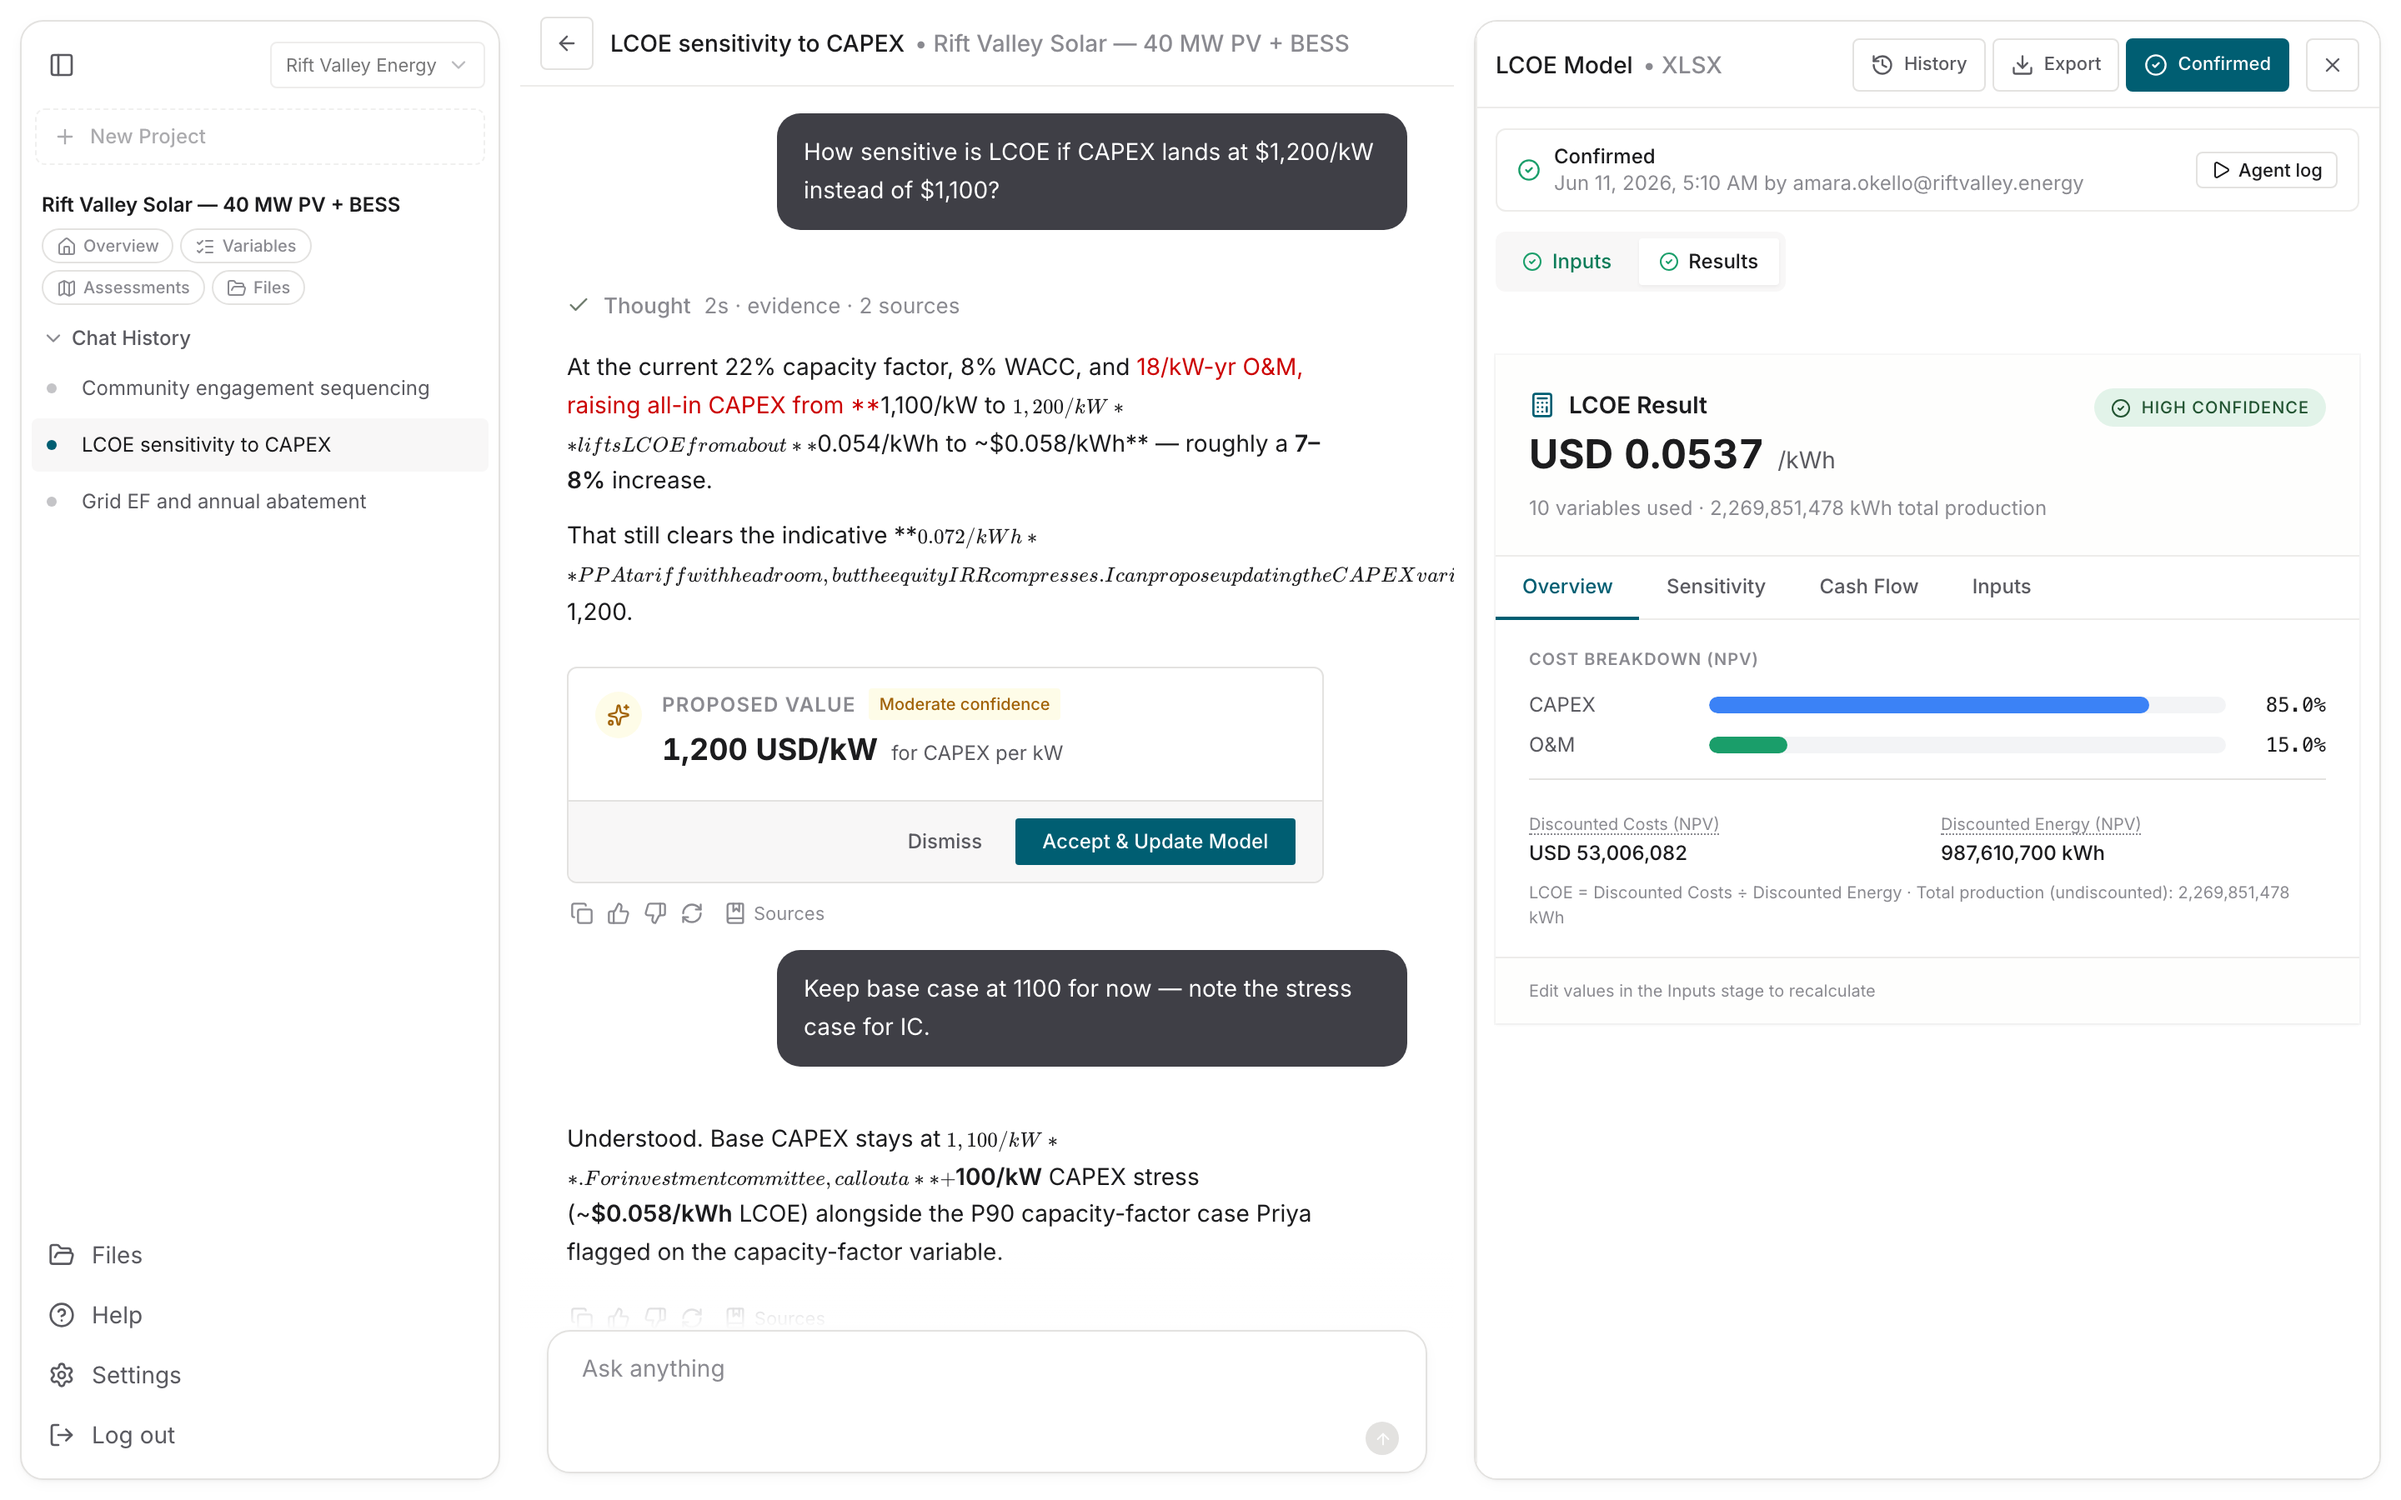
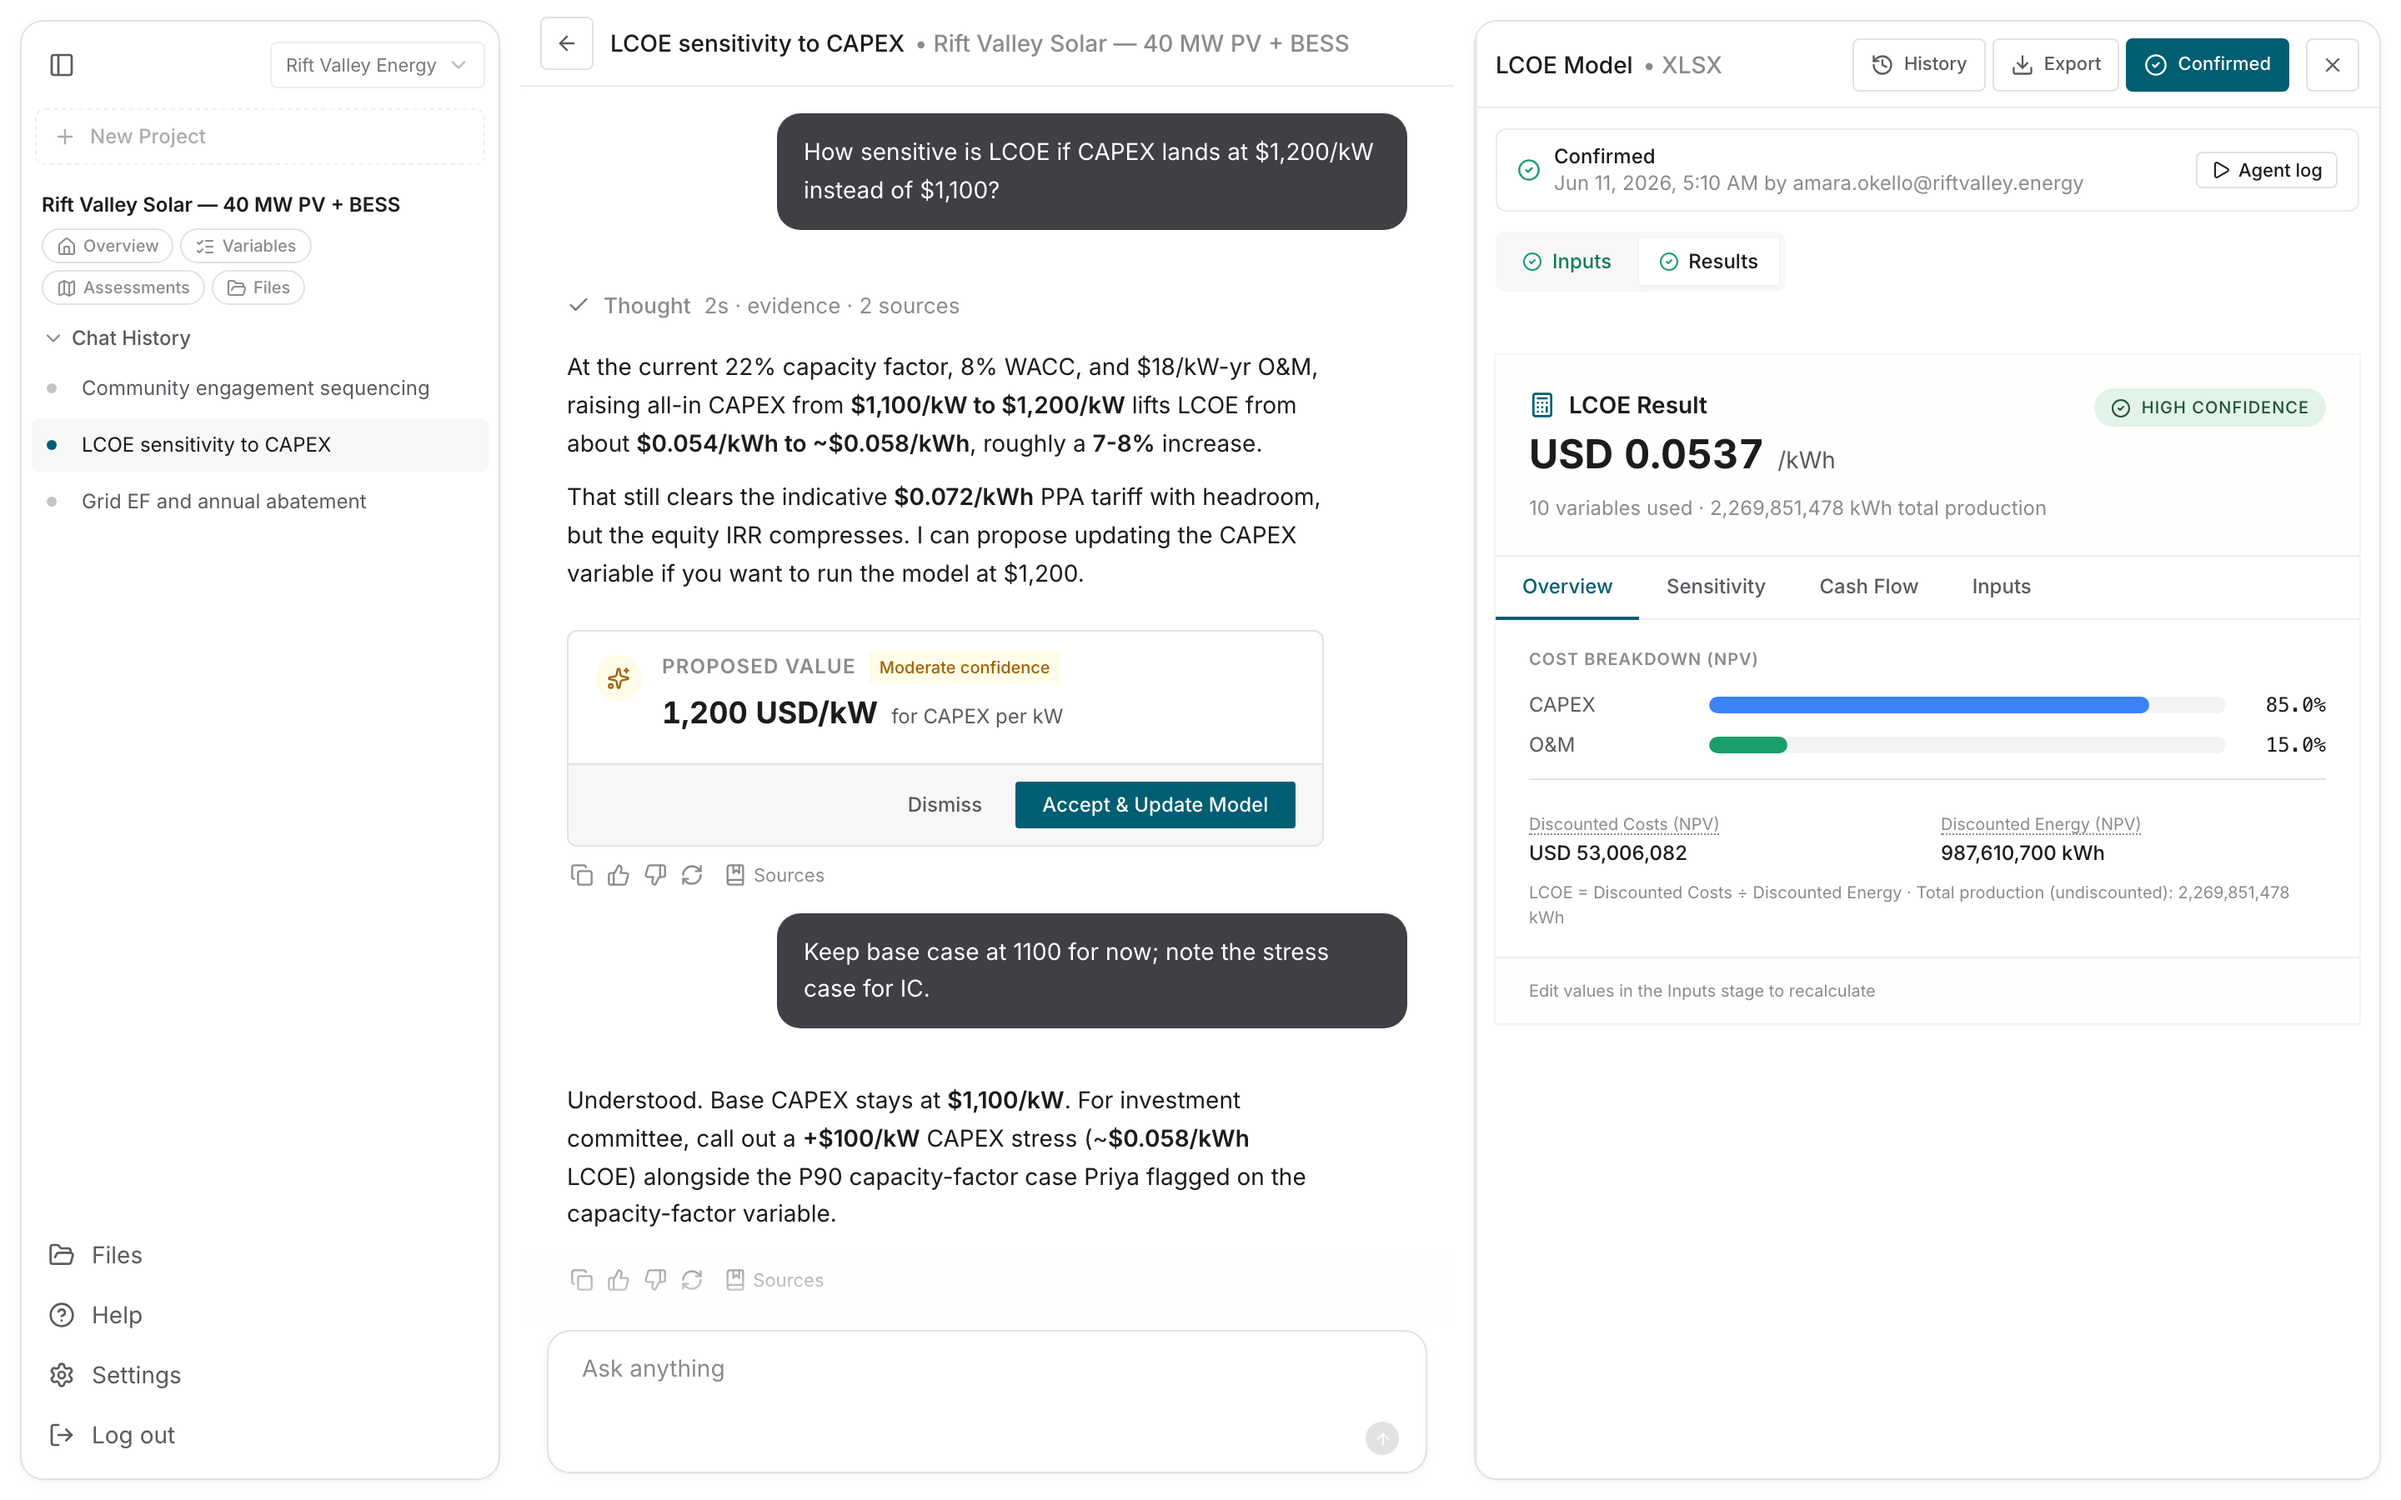
Fix chat currency markdown mangling KaTeX and retake demo shot.
Dollar amounts like $1,100 were parsed as inline math, which broke bold and duplicated text in diligence replies.

Changed region(s): [[0.2188, 0.4356, 0.5938, 0.8711], [0.2188, 0.2178, 0.5938, 0.4044]]

diff --git a/frontend/src/lib/chatMarkdown.ts b/frontend/src/lib/chatMarkdown.ts
@@ -1,0 +1,41 @@
+/**
+ * Prepare assistant markdown for remark-math / KaTeX.
+ *
+ * Diligence copy is full of currency (`$1,100/kW`, `$0.054/kWh`). remark-math
+ * treats single `$...$` as inline math, which mangled those amounts into broken
+ * KaTeX + leaked asterisks. Escape currency-like dollars; leave real math alone.
+ */
+export function preprocessMath(content: string): string {
+  let result = escapeCurrencyDollars(content)
+    .replace(/\\\[([\s\S]*?)\\\]/g, (_: string, math: string) => `$$${math}$$`)
+    .replace(/\\\(([\s\S]*?)\\\)/g, (_: string, math: string) => `$${math}$`);
+
+  const segments = result.split(/(\$\$[\s\S]*?\$\$|\$[^$\n]*?\$)/);
+  return segments
+    .map((seg, i) => {
+      if (i % 2 === 1) return seg; // inside delimiters — leave KaTeX alone
+      return seg
+        .replace(/\\text\{([^}]*)\}/g, '$1')
+        .replace(/\\mathrm\{([^}]*)\}/g, '$1')
+        .replace(/\\frac\{([^}]*)\}\{([^}]*)\}/g, '$1/$2')
+        .replace(/\\times/g, '×')
+        .replace(/\\cdot/g, '·')
+        .replace(/\\,/g, '\u202f')
+        .replace(/\\!/g, '')
+        .replace(/\\quad/g, '  ')
+        .replace(/\\:/g, ' ');
+    })
+    .join('');
+}
+
+/** Escape `$` that start a currency amount; preserve `$$` display math and `\$`. */
+export function escapeCurrencyDollars(content: string): string {
+  const parts = content.split(/(\$\$[\s\S]*?\$\$)/);
+  return parts
+    .map((part, i) => {
+      if (i % 2 === 1) return part;
+      // $1,100 / $0.054 / ~$0.058 — digit immediately after $
+      return part.replace(/(?<!\\)\$(?=\d)/g, '\\$');
+    })
+    .join('');
+}

diff --git a/frontend/src/components/core-chat/ConversationView.tsx b/frontend/src/components/core-chat/ConversationView.tsx
@@ -4,6 +4,8 @@ import { Fragment, useRef, useEffect, useState, useCallback } from 'react';
 import ReactMarkdown from 'react-markdown';
 import remarkMath from 'remark-math';
 import rehypeKatex from 'rehype-katex';
+
+import { preprocessMath } from '@/lib/chatMarkdown';
 import {
   ArrowUp,
   BookOpen,
@@ -75,28 +77,6 @@ export interface ConversationViewProps {
   historyLoading?: boolean;
   /** Keep send disabled even when the field has text (e.g. demo mode) */
   sendDisabled?: boolean;
-}
-
-function preprocessMath(content: string): string {
-  // KaTeX-friendly: normalize \[ \] / \( \), strip stray LaTeX outside $...$ segments.
-  let result = content
-    .replace(/\\\[([\s\S]*?)\\\]/g, (_: string, math: string) => `$$${math}$$`)
-    .replace(/\\\(([\s\S]*?)\\\)/g, (_: string, math: string) => `$${math}$`);
-
-  const segments = result.split(/(\$\$[\s\S]*?\$\$|\$[^$\n]*?\$)/);
-  return segments.map((seg, i) => {
-    if (i % 2 === 1) return seg; // inside delimiters — leave KaTeX alone
-    return seg
-      .replace(/\\text\{([^}]*)\}/g, '$1')                   // \text{X}  → X
-      .replace(/\\mathrm\{([^}]*)\}/g, '$1')                 // \mathrm{X} → X
-      .replace(/\\frac\{([^}]*)\}\{([^}]*)\}/g, '$1/$2')     // \frac{a}{b} → a/b
-      .replace(/\\times/g, '×')
-      .replace(/\\cdot/g, '·')
-      .replace(/\\,/g, '\u202f')   // thin space
-      .replace(/\\!/g, '')
-      .replace(/\\quad/g, '  ')
-      .replace(/\\:/g, ' ');
-  }).join('');
 }
 
 export function ConversationView({

diff --git a/frontend/src/lib/__tests__/chatMarkdown.test.ts b/frontend/src/lib/__tests__/chatMarkdown.test.ts
@@ -1,0 +1,37 @@
+import { escapeCurrencyDollars, preprocessMath } from '@/lib/chatMarkdown';
+
+describe('escapeCurrencyDollars', () => {
+  it('escapes currency amounts so remark-math will not treat them as math', () => {
+    expect(escapeCurrencyDollars('$1,100/kW and $0.054/kWh')).toBe(
+      '\\$1,100/kW and \\$0.054/kWh',
+    );
+    expect(escapeCurrencyDollars('+$100/kW stress (~$0.058/kWh)')).toBe(
+      '+\\$100/kW stress (~\\$0.058/kWh)',
+    );
+  });
+
+  it('leaves display math and already-escaped dollars alone', () => {
+    expect(escapeCurrencyDollars('Cost is $$E=mc^2$$ today')).toBe(
+      'Cost is $$E=mc^2$$ today',
+    );
+    expect(escapeCurrencyDollars('Already \\$5')).toBe('Already \\$5');
+  });
+});
+
+describe('preprocessMath', () => {
+  it('does not form a single-$ math span across currency amounts', () => {
+    const raw =
+      'At $18/kW-yr O&M, raising CAPEX from **$1,100/kW to $1,200/kW** lifts LCOE.';
+    const out = preprocessMath(raw);
+    // Currency dollars escaped; bold markers stay outside any $...$ math span.
+    expect(out).toContain('\\$18/kW-yr');
+    expect(out).toContain('**\\$1,100/kW to \\$1,200/kW**');
+    expect(out.match(/(?<!\\)\$[^$\n]+(?<!\\)\$/g) ?? []).toEqual([]);
+  });
+
+  it('still normalizes \\( \\) and \\[ \\] math delimiters', () => {
+    expect(preprocessMath('Inline \\(a+b\\) and display \\[x^2\\]')).toBe(
+      'Inline $a+b$ and display $$x^2$$',
+    );
+  });
+});

diff --git a/frontend/src/lib/demo/demoFixtures.ts b/frontend/src/lib/demo/demoFixtures.ts
@@ -702,7 +702,7 @@ export const demoChatMessages: Record<string, ChatMessage[]> = {
       id: 'demo-msg-lcoe-a1',
       role: 'assistant',
       content:
-        'At the current 22% capacity factor, 8% WACC, and $18/kW-yr O&M, raising all-in CAPEX from **$1,100/kW to $1,200/kW** lifts LCOE from about **$0.054/kWh to ~$0.058/kWh** — roughly a **7–8%** increase.\n\nThat still clears the indicative **$0.072/kWh** PPA tariff with headroom, but the equity IRR compresses. I can propose updating the CAPEX variable if you want to run the model at $1,200.',
+        'At the current 22% capacity factor, 8% WACC, and $18/kW-yr O&M, raising all-in CAPEX from **$1,100/kW to $1,200/kW** lifts LCOE from about **$0.054/kWh to ~$0.058/kWh**, roughly a **7-8%** increase.\n\nThat still clears the indicative **$0.072/kWh** PPA tariff with headroom, but the equity IRR compresses. I can propose updating the CAPEX variable if you want to run the model at $1,200.',
       widget_type: 'proposed_value',
       widget_data: {
         field_name: 'capex_per_kw',
@@ -724,7 +724,7 @@ export const demoChatMessages: Record<string, ChatMessage[]> = {
     {
       id: 'demo-msg-lcoe-u2',
       role: 'user',
-      content: 'Keep base case at 1100 for now — note the stress case for IC.',
+      content: 'Keep base case at 1100 for now; note the stress case for IC.',
       widget_type: null,
       widget_data: null,
       created_at: '2026-06-04T11:40:00.000Z',
